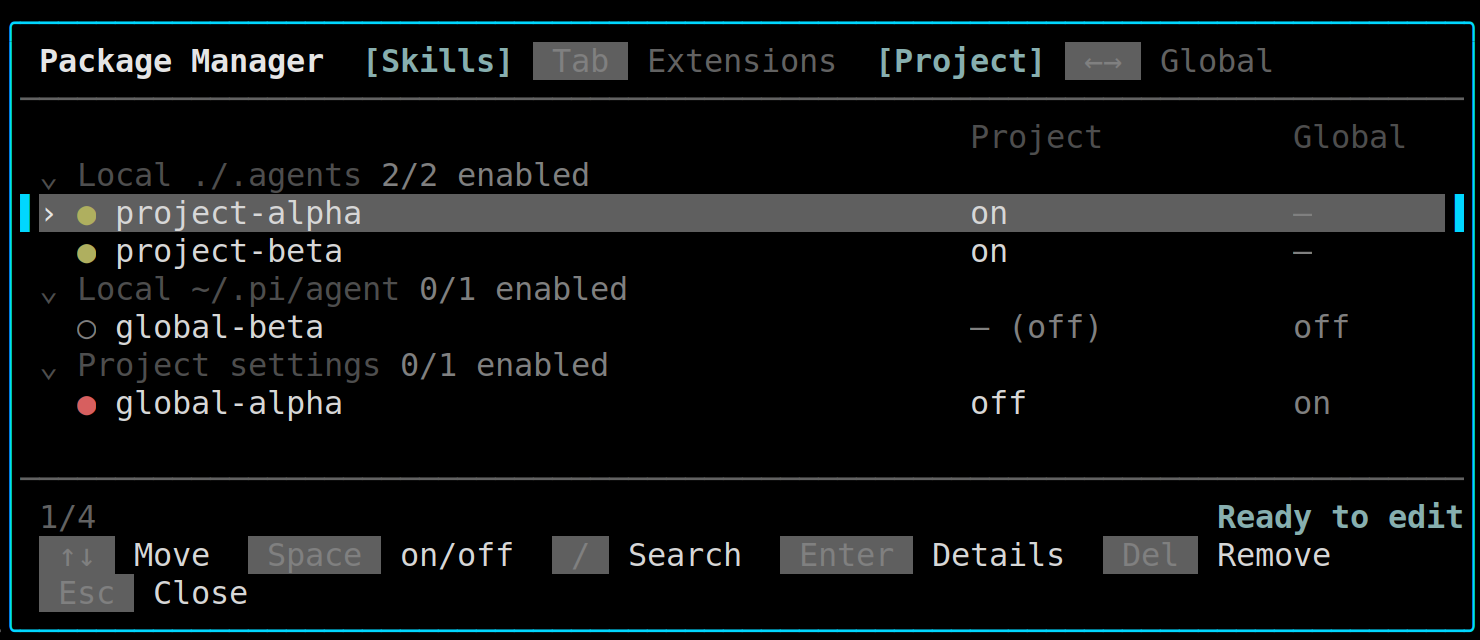
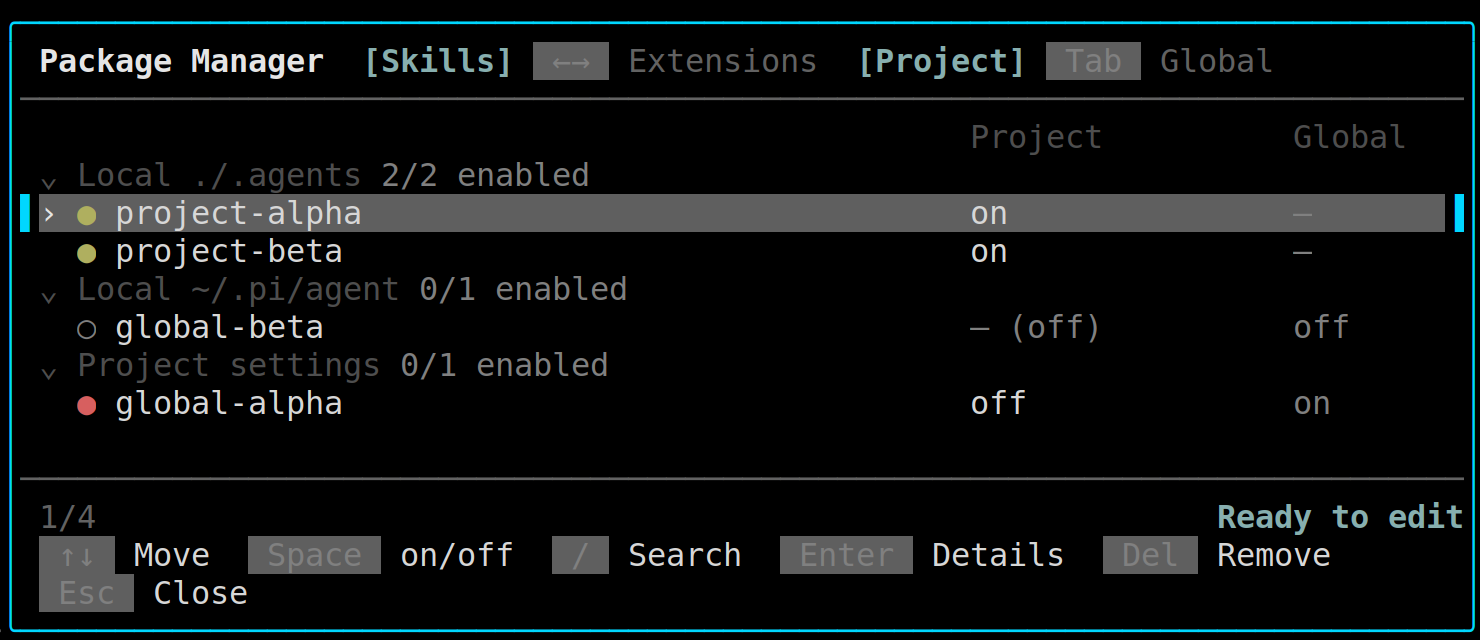
Swap the Tab and arrow key view switches
- Tab switches Project and Global
- Left and right arrows switch Skills and Extensions
- Update the header keycaps, README, requirements, and screenshot

Changed region(s): [[0.373, 0.0625, 0.7459, 0.125]]

diff --git a/src/ui.ts b/src/ui.ts
@@ -81,13 +81,13 @@ export class PackageManagerComponent implements Focusable {
 		}
 
 		if (this.keybindings.matches(data, "tui.input.tab") || matchesKey(data, Key.tab)) {
-			this.model.type = this.model.type === "skills" ? "extensions" : "skills";
+			this.model.scope = this.model.scope === "project" ? "global" : "project";
 			this.model.clampSelection();
 			this.requestRender();
 			return;
 		}
 		if (matchesKey(data, Key.left) || matchesKey(data, Key.right)) {
-			this.model.scope = this.model.scope === "project" ? "global" : "project";
+			this.model.type = this.model.type === "skills" ? "extensions" : "skills";
 			this.model.clampSelection();
 			this.requestRender();
 			return;
@@ -172,7 +172,7 @@ export class PackageManagerComponent implements Focusable {
 		const projectScope = label(project, this.model.scope === "project");
 		const globalScope = label(global, this.model.scope === "global");
 		const title = ` ${this.theme.bold("Package Manager")}  `;
-		const withKeys = `${title}${skills} ${this.keycap("Tab")} ${extensions}  ${projectScope} ${this.keycap("←→")} ${globalScope}`;
+		const withKeys = `${title}${skills} ${this.keycap("←→")} ${extensions}  ${projectScope} ${this.keycap("Tab")} ${globalScope}`;
 		if (visibleWidth(withKeys) <= inner) return withKeys;
 		return `${title}${skills} ${extensions}  ${projectScope} ${globalScope}`;
 	}

diff --git a/test/ui.test.ts b/test/ui.test.ts
@@ -236,3 +236,16 @@ test("the details page shows the skill description", () => {
 	const details = component.render(120).join("\n");
 	assert.match(details, /Description: Summarize a repository's state\./);
 });
+
+test("Tab switches scope while arrow keys switch resource type", () => {
+	const state = model();
+	const component = new PackageManagerComponent(state, theme, keybindings, () => {}, () => {}, 3);
+	component.handleInput("\t");
+	assert.equal(state.scope, "global");
+	component.handleInput("\u001b[C");
+	assert.equal(state.type, "extensions");
+	component.handleInput("\t");
+	assert.equal(state.scope, "project");
+	component.handleInput("\u001b[D");
+	assert.equal(state.type, "skills");
+});

diff --git a/docs/requirements.md b/docs/requirements.md
@@ -93,7 +93,7 @@ pi 本身能识别 `~/.agents/skills`、项目 `.agents/skills`（向上到 git 
 - 管理器保持居中的小型 overlay：默认宽度 80、最小宽度 50、最大高度为终端的 80%、外边距 1；外层面板与选中资源行使用当前主题的 `borderAccent`，静态来源标题使用 `borderMuted`，容器内部保持终端默认背景。
 - 所有 UI 文案、状态和提示使用纯英文。
 - 列表行显示名称、状态、对齐的 Project / Global 状态列与简短来源；当前项使用紧凑单行 `selectedBg`、accent 左右边缘和 `›` 指针；`Enter` 打开资源详情卡，展示名称、skill description、完整路径、package、覆盖关系和诊断；详情页 `Enter` 与 `Esc` 返回列表。
-- 标题栏使用 `Package Manager   [Skills] Tab Extensions   [Project] ←→ Global` 的文本结构；当前选择使用 accent，`Tab` 与 `←→` 使用 dim 小按键标签；`Tab` 切换 Skills/Extensions，`←/→` 切换 Project/Global。
+- 标题栏使用 `Package Manager   [Skills] ←→ Extensions   [Project] Tab Global` 的文本结构；当前选择使用 accent，`Tab` 与 `←→` 使用 dim 小按键标签；`←/→` 切换 Skills/Extensions，`Tab` 切换 Project/Global。
 - `Project` 视图显示对齐的 `Project` 与 `Global` 状态列；标题栏高亮 Project，`Space` 修改 Project 状态。`Global` 视图只显示 Global 相关信息，标题栏高亮 Global，`Space` 修改 Global 状态；Global 状态列保持与 Project 视图相同的最右侧列位。内部宽度低于 64 列时，标题栏与状态列表使用 `P` / `G` 缩写。
 - 底部使用两层信息栏：状态行左侧显示当前位置 `6/24`，右侧显示编辑状态；工具栏使用按键标签展示资源操作，`Tab` 与 `←→` 仅在标题栏展示；工具栏显示 `[Space] on/off`；窄终端将工具栏自动换成两行并保留全部操作。
 - 切换视图时保留每个视图的搜索词、滚动位置与 pending 修改。
@@ -110,7 +110,7 @@ pi 本身能识别 `~/.agents/skills`、项目 `.agents/skills`（向上到 git 
 - 左侧状态符只表示当前 Project 生效状态，使用实心 `●` 或空心 `○`；Project / Global 列只显示文字。列表顶部显示对齐列名 `Project` 与 `Global`。Project 列以 `— (on)` / `— (off)` 表示 inherit 后的生效状态，以 `on` / `off` 表示显式 Project 覆盖；Global 列显示全局状态，`—` 表示资源仅属于 Project。
 - Project 视图中，Global 为 `on` 时，Project 生效 `on` 显示 success `●`，Project 生效 `off` 显示 error `●`。Global 为 `off` 时，Project inherit 显示 muted `○`，显式 Project `on` 显示 success `●`，显式 Project `off` 显示 error `●`。Project-only 资源的 `on` / `off` 分别显示 success / error `●`。
 - Global 视图中，Global `on` 显示 success `●`，Global `off` 显示 muted `○`。
-- 入口命令为 `/pkg-manager`、`/skills-manager`、`/extensions-manager`：`/pkg-manager` 默认打开 Skills + Project；两个定向入口分别打开 Skills + Project 与 Extensions + Project；进入后 `Tab` 仍可切换资源类型。
+- 入口命令为 `/pkg-manager`、`/skills-manager`、`/extensions-manager`：`/pkg-manager` 默认打开 Skills + Project；两个定向入口分别打开 Skills + Project 与 Extensions + Project；进入后 `←/→` 仍可切换资源类型。
 - `Esc` 按页面层级处理：详情页返回列表；搜索有内容时先清空；主列表无 pending 时关闭；有 pending 时确认是否丢弃后关闭。
 - 搜索过滤、关闭、改完提示 reload —— 与 `pi config` / `pi-skills-manager` 的交互保持同源。
 - 不做"两层同时可编辑"（双圆点 / 双栏）：无生态先例，且 pi 的数据模型本来就是"一个作用域 = 一个写入目标"。

diff --git a/README.md b/README.md
@@ -69,8 +69,8 @@ Start a new Pi session and run one of the manager commands:
 
 | Key | Action |
 |---|---|
-| `Tab` | Switch Skills / Extensions |
-| `←` / `→` | Switch Project / Global |
+| `←` / `→` | Switch Skills / Extensions |
+| `Tab` | Switch Project / Global |
 | `↑` / `↓` | Navigate resources |
 | `Space` | Cycle inherit / on / off (Project) or toggle (Global) |
 | `r` | Restore inherit for a Global resource (Project view) |
